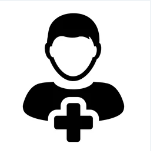
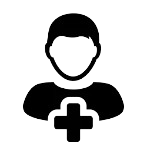
pagina de inicio con imagen de fondo

diff --git a/src/App.jsx b/src/App.jsx
@@ -7,8 +7,9 @@ import Modal from 'react-modal';
 import LoginForm from './components/LoginForm.jsx';
 import ContactForm from './components/ContactForm.jsx';
 import RegistroForm from './components/RegistroForm.jsx';
-import ImageCarousel from './components/ImageCarousel.jsx'; // Importar el componente del carrusel
+import ImageCarousel from './components/ImageCarousel.jsx';
 import logo from './assets/img/logo.png';
+import fondo1 from './assets/img/fondo1.png'; // Importa la imagen de fondo
 import loginImage from './assets/img/login.png';
 import contactoImage from './assets/img/contacto.png';
 import registroImage from './assets/img/registro.png';
@@ -41,96 +42,112 @@ const App = () => {
 
   // Estructura JSX para la vista principal de la aplicación
   return (
-    <div className="contenedor-inicio mt-2 mb-2 p-2">
-      <div className="row">
-        {/* Sección del logo */}
-        <div className="col-12 col-md-6 d-flex justify-content-center">
-          <img src={logo} alt="Logo" className="contenedor-logo img-fluid img-logo" />
-        </div>
+    <div className="contenedor-principal">
+      <div className="contenedor-inicio mt-2 mb-2 p-2" style={{ position: 'relative' }}>
+        {/* Pseudoelemento para desaturar la imagen de fondo */}
+        <div
+          className="imagen-fondo-desaturada"
+          style={{
+            position: 'absolute',
+            top: 0,
+            left: 0,
+            width: '100%',
+            height: '100%',
+            backgroundImage: `url(${fondo1})`,
+            filter: 'opacity(0.2)',
+            zIndex: -1,
+          }}
+        ></div>
+        <div className="row">
+          {/* Sección del logo */}
+          <div className="col-12 col-md-6 d-flex justify-content-center">
+            <img src={logo} alt="Logo" className="contenedor-logo img-fluid img-logo" />
+          </div>
 
-        {/* Sección de imágenes y enlaces de acción */}
-        <div className="col-12 col-md-6 text-center fila-imagen-personalizada d-flex flex-wrap">
-          {/* Iconos y enlaces */}
-          <div className="col xs-6 col-md-4 mb-3">
-            <div
-              className="contenedor-imagen contenedor-imagen-debajo contenedor-imagen-primera"
-              onClick={() => openModalAndRedirect('/login')}
-              style={{ cursor: 'pointer' }}
-            >
-              <img src={loginImage} alt="Inicio de sesión" className="img-fluid" />
+          {/* Sección de imágenes y enlaces de acción */}
+          <div className="col-12 col-md-6 text-center fila-imagen-personalizada d-flex flex-wrap">
+            {/* Iconos y enlaces */}
+            <div className="col xs-6 col-md-4 mb-3">
+              <div
+                className="contenedor-imagen contenedor-imagen-debajo contenedor-imagen-primera"
+                onClick={() => openModalAndRedirect('/login')}
+                style={{ cursor: 'pointer' }}
+              >
+                <img src={loginImage} alt="Inicio de sesión" className="img-fluid" />
+              </div>
+              <p className="texto-debajo-imagen">Iniciar sesión</p>
             </div>
-            <p className="texto-debajo-imagen">Iniciar sesión</p>
-          </div>
-          <div className="col xs-6 col-md-4 mb-3">
-            <div
-              className="contenedor-imagen contenedor-imagen-debajo"
-              onClick={() => openModalAndRedirect('/contacto')}
-              style={{ cursor: 'pointer' }}
-            >
-              <img src={contactoImage} alt="Contacto" className="img-fluid" />
+            <div className="col xs-6 col-md-4 mb-3">
+              <div
+                className="contenedor-imagen contenedor-imagen-debajo"
+                onClick={() => openModalAndRedirect('/contacto')}
+                style={{ cursor: 'pointer' }}
+              >
+                <img src={contactoImage} alt="Contacto" className="img-fluid" />
+              </div>
+              <p className="texto-debajo-imagen">Contáctanos</p>
             </div>
-            <p className="texto-debajo-imagen">Contáctanos</p>
-          </div>
-          <div className="col xs-12 col-md-4 mb-3">
-            <div
-              className="contenedor-imagen contenedor-imagen-debajo contenedor-registro"
-              onClick={() => openModalAndRedirect('/registro')}
-              style={{ cursor: 'pointer' }}
-            >
-              <img src={registroImage} alt="Registro" className="img-fluid" />
+            <div className="col xs-12 col-md-4 mb-3">
+              <div
+                className="contenedor-imagen contenedor-imagen-debajo contenedor-registro"
+                onClick={() => openModalAndRedirect('/registro')}
+                style={{ cursor: 'pointer' }}
+              >
+                <img src={registroImage} alt="Registro" className="img-fluid" />
+              </div>
+              <p className="texto-debajo-imagen">Regístrate</p>
             </div>
-            <p className="texto-debajo-imagen">Regístrate</p>
+          </div>
+
+          {/* Carrusel de imágenes */}
+          <div className="col xs-12 col-md-12 mb-3 d-flex justify-content-center">
+            <ImageCarousel />
+          </div>
+
+          {/* Contenedor "Quiénes somos" y "Nuestra Ubicación" */}
+          <div className="row justify-content-center ms-1 mb-3">
+            {/* Quiénes somos */}
+            <div className="col-xs-12 col-md-5 quienes-somos-contenedor text-justify">
+              <h2 className="quienes-somos-titulo">Quiénes somos</h2>
+              <MaquinaEscribir />
+            </div>
+
+            {/* Mapa de Google con encabezado */}
+            <div className="col-12 col-md-5 google-maps-contenedor text-justify">
+              <h2 className="ubicacion-titulo">Nuestra Ubicación</h2>
+              <Mapa />
+            </div>
           </div>
         </div>
 
-        {/* Carrusel de imágenes */}
-        <div className="col xs-12 col-md-12 mb-3 d-flex justify-content-center">
-          <ImageCarousel />
-        </div>
-
-        {/* Contenedor "Quiénes somos" y "Nuestra Ubicación" */}
-        <div className="row justify-content-center ms-1 mb-3">
-          {/* Quiénes somos */}
-          <div className="col-xs-12 col-md-5 quienes-somos-contenedor text-justify">
-            <h2 className="quienes-somos-titulo">Quiénes somos</h2>
-            <MaquinaEscribir />
-          </div>
-
-          {/* Mapa de Google con encabezado */}
-          <div className="col-12 col-md-5 google-maps-contenedor text-justify">
-            <h2 className="ubicacion-titulo">Nuestra Ubicación</h2>
-            <Mapa />
-          </div>
-        </div>
+        {/* Modal utilizando ReactDOM.createPortal */}
+        {ReactDOM.createPortal(
+          <Modal
+            isOpen={modalIsOpen}
+            onRequestClose={handleCloseModal}
+            contentLabel={location.pathname === '/login' ? 'LoginForm Modal' : 'ContactForm Modal'}
+            className="modal-content"
+            overlayClassName="modal-overlay"
+          >
+            {/* Contenido del modal (LoginForm, ContactForm, o RegistroForm según la ruta) */}
+            {location.pathname === '/login' ? (
+              <LoginForm />
+            ) : location.pathname === '/contacto' ? (
+              <ContactForm />
+            ) : location.pathname === '/registro' ? (
+              <RegistroForm />
+            ) : null}
+          </Modal>,
+          document.body
+        )}
       </div>
-
-      {/* Modal utilizando ReactDOM.createPortal */}
-      {ReactDOM.createPortal(
-        <Modal
-          isOpen={modalIsOpen}
-          onRequestClose={handleCloseModal}
-          contentLabel={location.pathname === '/login' ? 'LoginForm Modal' : 'ContactForm Modal'}
-          className="modal-content"
-          overlayClassName="modal-overlay"
-        >
-          {/* Contenido del modal (LoginForm, ContactForm, o RegistroForm según la ruta) */}
-          {location.pathname === '/login' ? (
-            <LoginForm />
-          ) : location.pathname === '/contacto' ? (
-            <ContactForm />
-          ) : location.pathname === '/registro' ? (
-            <RegistroForm />
-          ) : null}
-
-        </Modal>,
-        document.body
-      )}
     </div>
   );
 };
 
 // Exportar el componente principal de la aplicación
 export default App;
+
 
 
 

diff --git a/src/assets/css/App.css b/src/assets/css/App.css
@@ -5,7 +5,7 @@ body {
 
 /* Reglas para el contenedor principal */
 .contenedor {
-    background-color: white;
+    background-color: transparent;
     border: 2px solid #d9d9d9;
     border-radius: 10px;
     margin: 10px;
@@ -14,13 +14,13 @@ body {
 
 /* Reglas para el contenedor principal */
 .contenedor-inicio {
-    background-color: white;
+    background-color: transparent;
     border: 2px solid #d9d9d9;
     border-radius: 10px;
     margin: 10px;
     padding: 10px;
 }
-
+  
 /* Reglas para el contenedor del logo */
 .contenedor-logo {
     text-align: center;
@@ -83,7 +83,7 @@ img {
 /* Estilos para el contenedor "Quiénes somos" y "Nuestra Ubicación" */
 .quienes-somos-contenedor,
 .google-maps-contenedor {
-    background-color: white;
+    background-color: transparent;
     border-radius: 10px;
     padding: 20px;
     margin-top: 20px;
@@ -480,6 +480,6 @@ input[type="checkbox"] {
     }
 
     .img-editar-direccion {
-        margin-top:20px;
+        margin-top: 20px;
     }
 }
